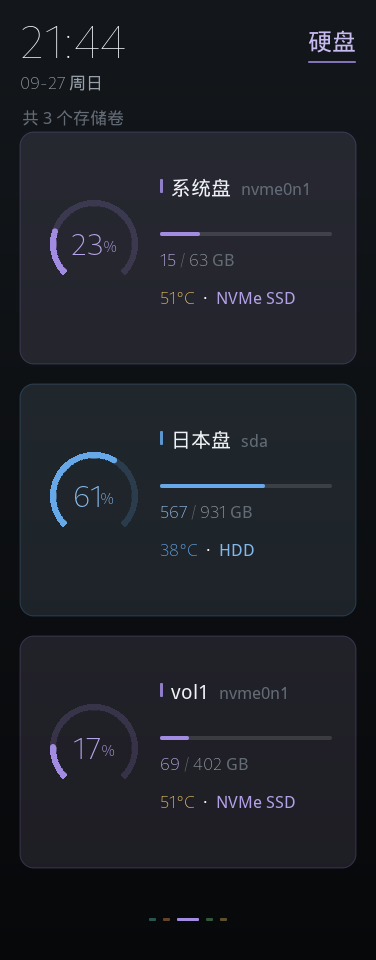
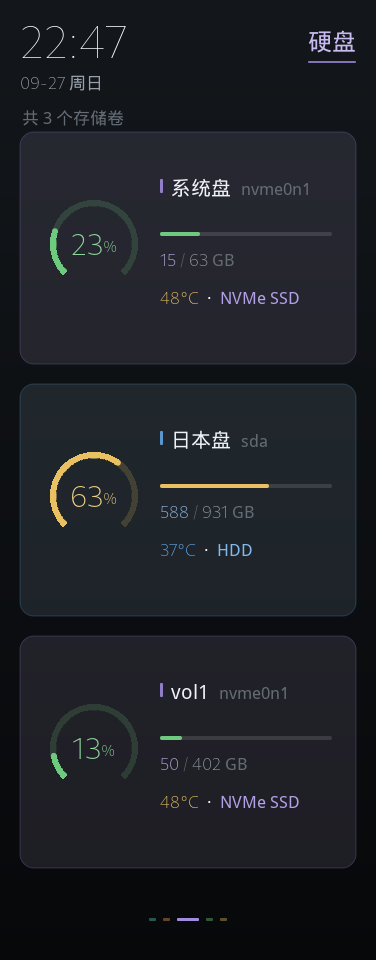
docs: refresh UI screenshots with three-state load colors, note in feature table

diff --git a/README.md b/README.md
@@ -18,7 +18,7 @@
 |---|---|
 | **性能** | CPU 占用从约 89% 优化到 **单核 2.1%**（跳帧渲染 + 局部重绘 + 圆角遮罩缓存 + 亚像素插值 + 采样减频） |
 | **安全** | Web 面板令牌鉴权（首次启动自动生成、屏幕系统页显示）、亮度/风扇曲线等接口输入校验、修复磁盘监控数据竞争（`-race` 验证） |
-| **体验** | 天气图标静态化（相位冻结）、配置文件保存保留注释、崩溃自愈（systemd 加固） |
+| **体验** | 负载三态色（CPU / 内存 / 硬盘容量：≤50% 绿 · >50% 琥珀黄 · ≥90% 砖红，颜色即负载读数）、天气图标静态化（相位冻结）、配置文件保存保留注释、崩溃自愈（systemd 加固） |
 | **代码** | 渲染器模块化拆分（canvas / textrender / theme / widgets）、删除无人消费的死代码 |
 
 ## 硬件与系统要求
